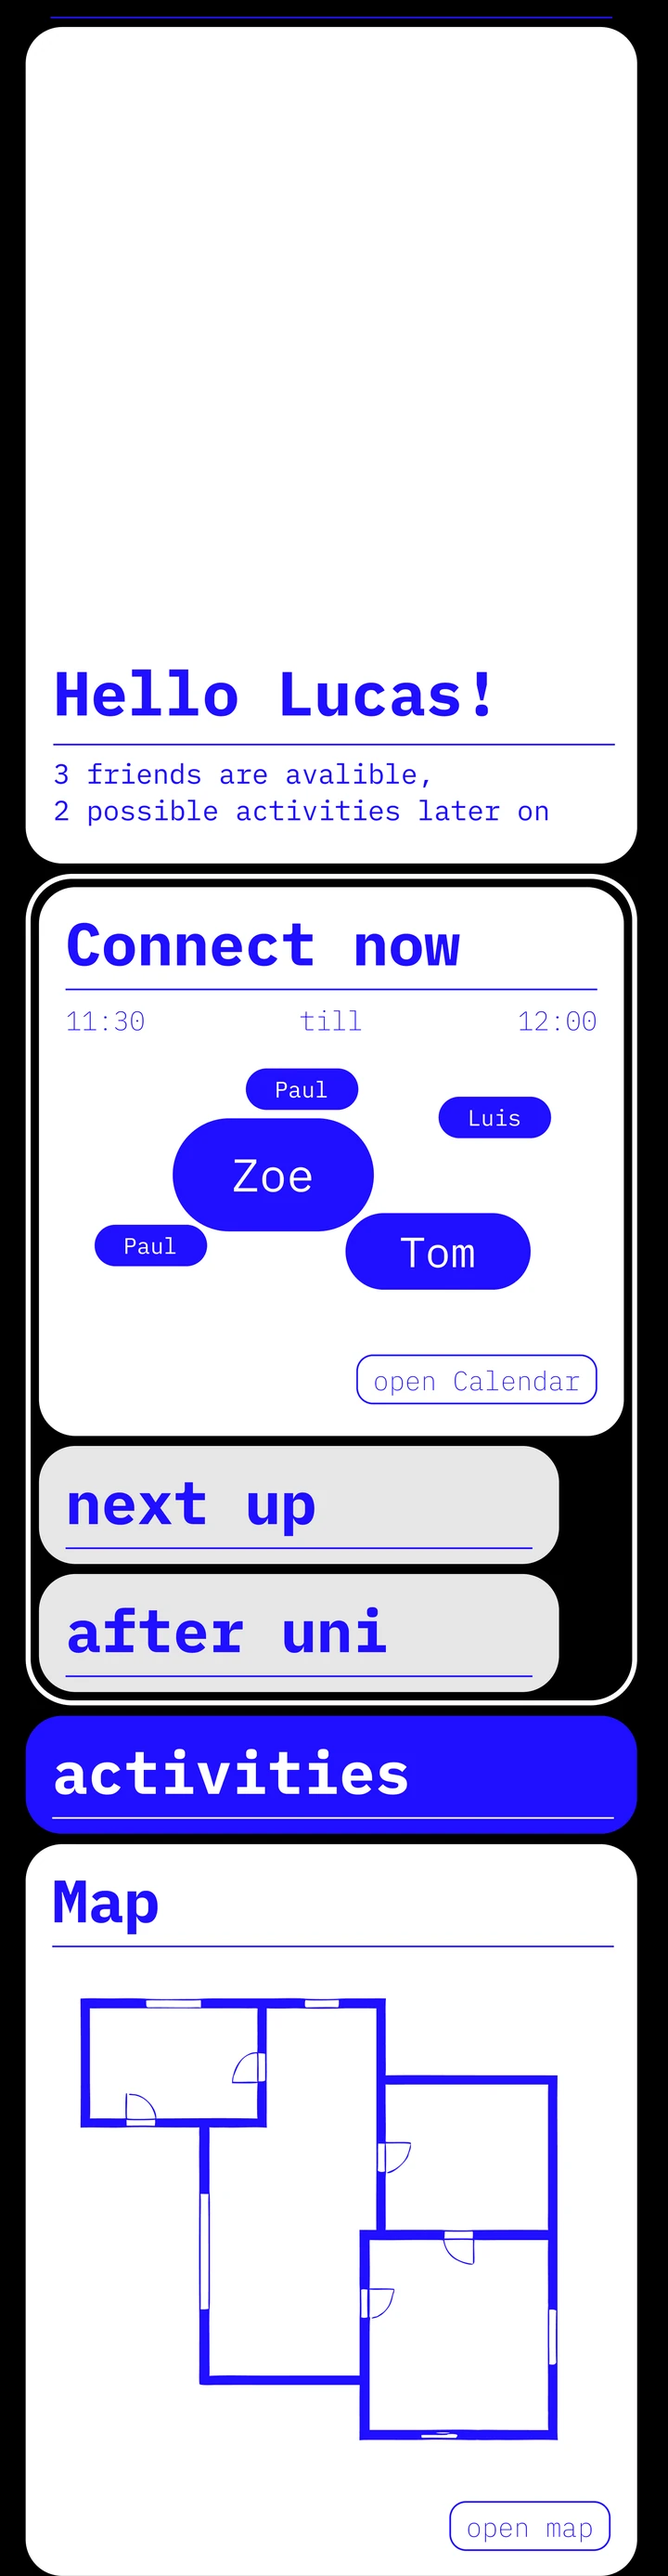
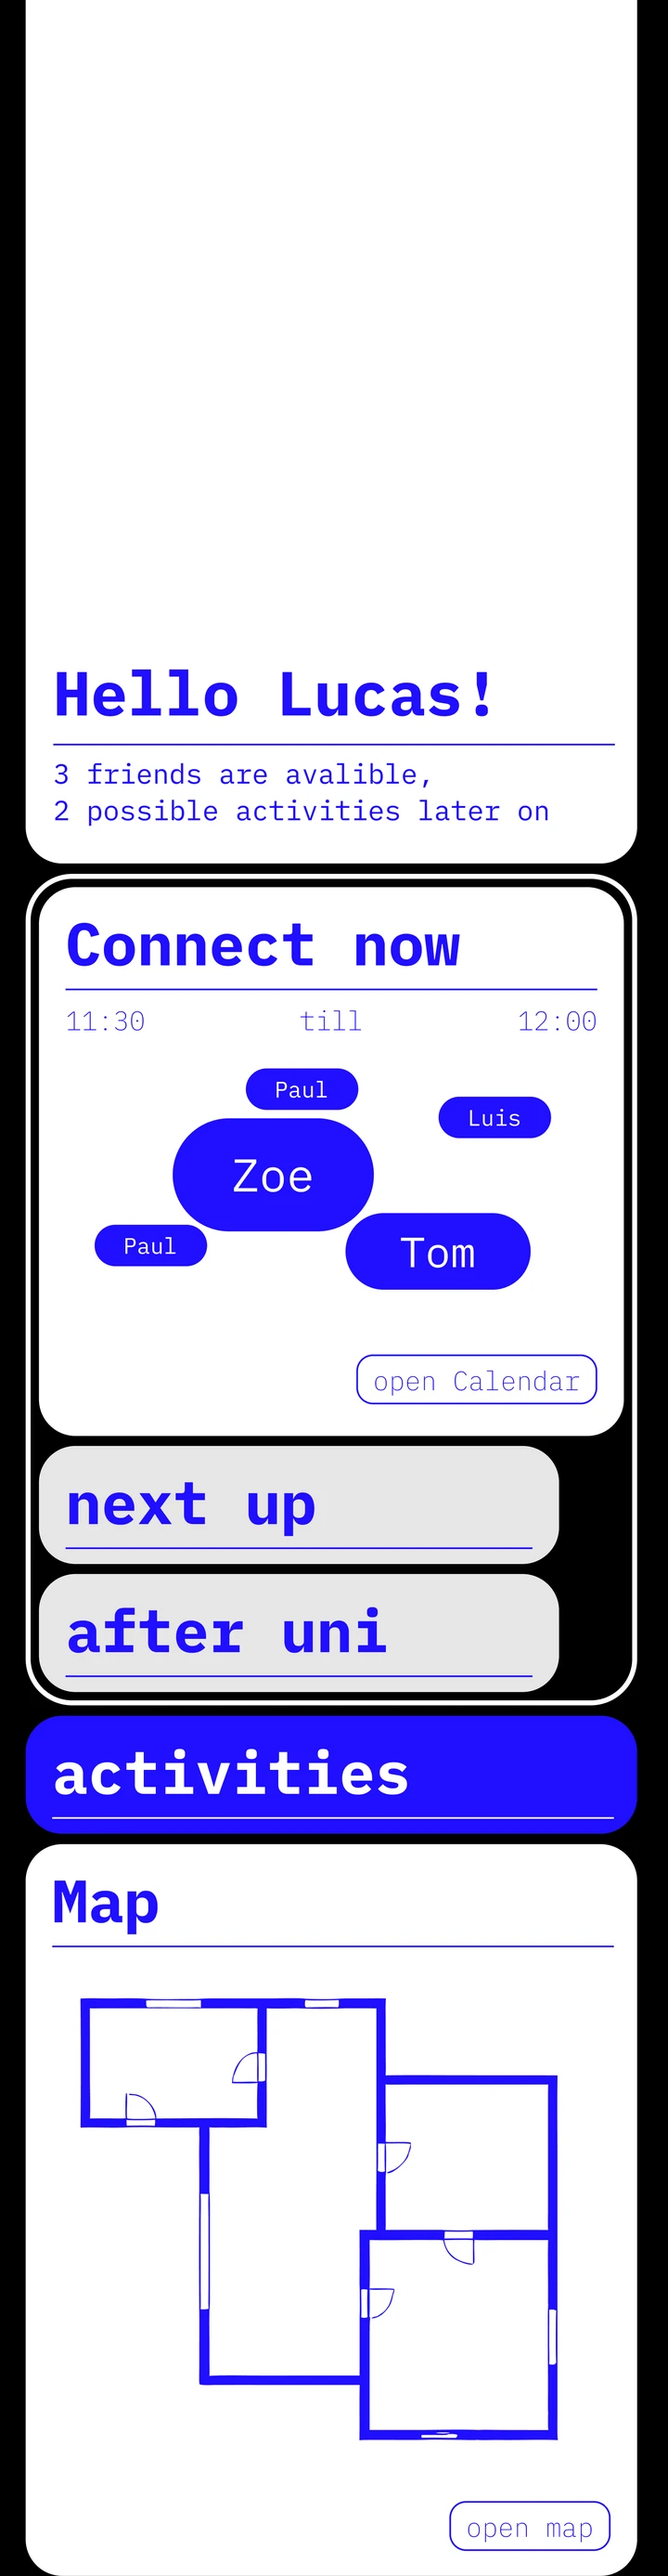
Carousel: scroll screens play on arrival, click to park, swipe to step
Home and timetable only scroll while they are in the middle and each
turn lasts as long as the scroll. Clicking a phone centres it and stops
the autoplay; a sideways trackpad scroll or swipe steps through. The v1
home card now runs to the top with square corners.

Changed region(s): [[0.0306, 0.0, 0.9778, 0.031]]

diff --git a/public/unify2d1.html b/public/unify2d1.html
@@ -1653,20 +1653,14 @@
        below it. Padding is in the image's box, so the scroll travel
        (calc(-100% + 100cqh)) still lands on the last row. */
     .v1-window img.v1-clear-island { padding-top: 10%; background: #000; box-sizing: content-box; }
-    /* Scroll the whole page down and back, eased at both ends, holding at the
-       top and bottom. The travel is calc(-100% + 100cqh): the image's own height
-       minus the window's, so it lands exactly on the last row whatever size the
-       phone renders at. Timing: hold 1.3s, down 5.2s, hold 1.6s, up 3.9s. */
-    .v1-window img.is-scrolling { animation: v1-scroll 13s infinite; }
-    .v1-window img.is-scrolling.is-late { animation-delay: 1.4s; }
-    @keyframes v1-scroll {
-      0%, 10%  { transform: translateY(0); animation-timing-function: cubic-bezier(.42, 0, .25, 1); }
-      50%, 62% { transform: translateY(calc(-100% + 100cqh)); animation-timing-function: cubic-bezier(.42, 0, .25, 1); }
-      92%, 100% { transform: translateY(0); }
-    }
-    @media (prefers-reduced-motion: reduce) {
-      .v1-window img.is-scrolling { animation: none; }
-    }
+    /* Home and timetable scroll their whole length, but only while they are
+       the phone in the middle of the carousel — the script plays it with the
+       Web Animations API (see the carousel script). The travel is
+       calc(-100% + 100cqh): the image's own height minus the window's, so it
+       lands exactly on the last row whatever size the phone renders at. */
+    .v1-carousel { touch-action: pan-y; }
+    .v1-carousel > .phone-shot { cursor: pointer; }
+    .v1-carousel > .phone-shot[data-slot="0"] { cursor: default; }
     .pivot-screens .phone-shot { width: 100%; max-width: 220px; }
 
     /* Timetable variants A / B / C with their metrics underneath. */
@@ -1979,11 +1973,11 @@
           <span class="pivot-label">v1 · technical</span>
           <div class="v1-carousel" aria-label="Unify v1 screens">
             <div class="phone-shot"><div class="phone-shot-screen"><div class="v1-screen" role="img" aria-label="Unify v1 home screen, scrolling">
-              <div class="v1-window"><img class="is-scrolling" src="/images/unify/v1/v1-home.webp" width="720" alt="" /></div>
+              <div class="v1-window"><img src="/images/unify/v1/v1-home.webp" width="720" alt="" /></div>
               <img class="v1-bar" src="/images/unify/v1/v1-home-bar.webp" width="720" height="144" alt="" />
             </div></div><img class="phone-shot-frame" src="/images/unify/iphone-17-frame.png" alt="" /></div>
             <div class="phone-shot"><div class="phone-shot-screen"><div class="v1-screen" role="img" aria-label="Unify v1 timetable, scrolling">
-              <div class="v1-window"><img class="is-scrolling is-late v1-clear-island" src="/images/unify/v1/v1-timetable.webp" width="720" alt="" /></div>
+              <div class="v1-window"><img class="v1-clear-island" src="/images/unify/v1/v1-timetable.webp" width="720" alt="" /></div>
               <img class="v1-bar" src="/images/unify/v1/v1-timetable-bar.webp" width="720" height="144" alt="" />
             </div></div><img class="phone-shot-frame" src="/images/unify/iphone-17-frame.png" alt="" /></div>
             <div class="phone-shot"><div class="phone-shot-screen"><img class="v1-still" src="/images/unify/v1/v1-building.webp" alt="Unify v1 building map with floor switcher" /></div><img class="phone-shot-frame" src="/images/unify/iphone-17-frame.png" alt="" /></div>
@@ -3016,46 +3010,130 @@
   </script>
 
   <script>
-    // ── v1 carousel: step every phone one slot right every 3s, wrap at the edge
+    // ── v1 carousel ───────────────────────────────────────────────────────────
+    // Five phones on five slots (-2..2). It advances on its own, one slot to the
+    // right, after each screen has had its turn in the middle: 3s for a still,
+    // the full scroll for home and timetable, which only play while they are in
+    // the middle. Clicking a phone brings it to the middle and stops the
+    // autoplay there; a sideways trackpad scroll or a swipe steps through them.
     (function () {
       var car = document.querySelector('.v1-carousel');
       if (!car) return;
       var items = Array.prototype.slice.call(car.children), n = items.length;
-      var DWELL = 3000, MOVE = 900, FADE = 450, GROW = 700;
-      var center = 0;                                   // index of the phone in the middle
+      var STILL = 3000, MOVE = 900, FADE = 450, GROW = 700;
+      var SCROLL_IN = 500, SCROLL_DOWN = 5200, SCROLL_HOLD = 1200;
+      var EASE = 'cubic-bezier(.42, 0, .25, 1)';
+      var END = 'translateY(calc(-100% + 100cqh))';
+      var reduce = window.matchMedia('(prefers-reduced-motion: reduce)').matches;
+      var center = 0, auto = !reduce, timer = null, onScreen = false, playing = null;
+
       function slotOf(i) {                              // left of centre = next in order
-        var d = ((center - i) % n + n) % n;             // 0..n-1
-        return d > 2 ? d - n : d;                       // -2..2
+        var d = ((center - i) % n + n) % n;
+        return d > 2 ? d - n : d;
       }
-      function place() { items.forEach(function (el, i) { el.dataset.slot = slotOf(i); }); }
-      place();
-      if (window.matchMedia('(prefers-reduced-motion: reduce)').matches) return;
+      function scroller(el) { return el.querySelector('.v1-window img'); }
 
-      function step() {
-        var wrapping = items.filter(function (el) { return el.dataset.slot === '2'; })[0];
-        center = (center + 1) % n;
-        items.forEach(function (el, i) { if (el !== wrapping) el.dataset.slot = slotOf(i); });
-        if (!wrapping) return;
-        // The outer phone does not slide round the edge: it shrinks and fades
-        // away as if stepping back (only a third of a slot sideways), then on
-        // the far left it grows and fades in, as if stepping forward.
-        wrapping.style.transition = 'transform ' + FADE + 'ms cubic-bezier(.5, 0, .75, 0), opacity ' + FADE + 'ms ease-in';
-        wrapping.dataset.slot = 'out-right';
-        setTimeout(function () {
-          wrapping.style.transition = 'none';
-          wrapping.dataset.slot = 'out-left';           // jump unseen to the far left
-          void wrapping.offsetWidth;
-          wrapping.style.transition = 'transform ' + GROW + 'ms cubic-bezier(.25, 1, .5, 1), opacity ' + GROW + 'ms ease-out';
-          wrapping.dataset.slot = '-2';
-          setTimeout(function () { wrapping.style.transition = ''; }, GROW);
-        }, FADE);
+      // ── the scroll inside home / timetable
+      function play(el) {
+        var img = scroller(el);
+        if (!img || reduce) return;
+        playing = img.animate(auto
+          // autoplay: once down, then hold at the bottom until the carousel moves on
+          ? [{ transform: 'translateY(0)', offset: 0, easing: EASE },
+             { transform: END }]
+          // parked by a click: down, hold, back up, hold, for as long as it stays
+          : [{ transform: 'translateY(0)', offset: 0 },
+             { transform: 'translateY(0)', offset: .08, easing: EASE },
+             { transform: END, offset: .48 },
+             { transform: END, offset: .6, easing: EASE },
+             { transform: 'translateY(0)', offset: .92 },
+             { transform: 'translateY(0)', offset: 1 }],
+          auto ? { duration: SCROLL_DOWN, delay: SCROLL_IN, fill: 'forwards' }
+               : { duration: 13000, iterations: Infinity });
+      }
+      function rewind() {                               // glide back to the top as it leaves
+        if (!playing) return;
+        var img = playing.effect.target, from = getComputedStyle(img).transform;
+        playing.cancel(); playing = null;
+        if (from && from !== 'none') img.animate([{ transform: from }, { transform: 'translateY(0)' }],
+                                                 { duration: MOVE, easing: 'cubic-bezier(.65, 0, .35, 1)' });
       }
 
-      var timer = null;
-      function start() { if (!timer) timer = setInterval(step, DWELL + MOVE); }
-      function stop()  { clearInterval(timer); timer = null; }
-      var onScreen = false;
-      function sync() { onScreen && !document.hidden ? start() : stop(); }
+      // ── moving the row by c slots (c > 0 = rightwards)
+      function moveBy(c) {
+        if (!c) return;
+        rewind();
+        var old = items.map(function (el) { return +el.dataset.slot; });
+        center = ((center + c) % n + n) % n;
+        items.forEach(function (el, i) {
+          var to = slotOf(i), passes = old[i] + c;
+          if (passes >= -2 && passes <= 2) { el.dataset.slot = to; return; }
+          // Past an edge: step back and fade on that side, then step forward
+          // and fade in on the other side, only a third of a slot sideways.
+          el.style.transition = 'transform ' + FADE + 'ms cubic-bezier(.5, 0, .75, 0), opacity ' + FADE + 'ms ease-in';
+          el.dataset.slot = passes > 2 ? 'out-right' : 'out-left';
+          setTimeout(function () {
+            el.style.transition = 'none';
+            el.dataset.slot = passes > 2 ? 'out-left' : 'out-right';
+            void el.offsetWidth;
+            el.style.transition = 'transform ' + GROW + 'ms cubic-bezier(.25, 1, .5, 1), opacity ' + GROW + 'ms ease-out';
+            el.dataset.slot = to;
+            setTimeout(function () { el.style.transition = ''; }, GROW);
+          }, FADE);
+        });
+        setTimeout(function () { play(items[center]); }, MOVE);
+        schedule();
+      }
+
+      // ── autoplay: each screen's turn lasts as long as it needs
+      function turnLength(el) {
+        return scroller(el) ? SCROLL_IN + SCROLL_DOWN + SCROLL_HOLD : STILL;
+      }
+      function schedule() {
+        clearTimeout(timer); timer = null;
+        if (!auto || !onScreen || document.hidden) return;
+        timer = setTimeout(function () { moveBy(1); }, MOVE + turnLength(items[center]));
+      }
+      function park() { auto = false; clearTimeout(timer); timer = null; }
+
+      items.forEach(function (el, i) {
+        el.dataset.slot = slotOf(i);
+        el.addEventListener('click', function () {
+          var s = +el.dataset.slot;
+          park();
+          if (s === 0) { rewind(); play(el); return; }   // restart its scroll, looping
+          moveBy(-s);
+        });
+      });
+
+      // sideways trackpad / mouse-wheel: one step per gesture
+      var acc = 0, lock = false;
+      car.addEventListener('wheel', function (e) {
+        if (Math.abs(e.deltaX) <= Math.abs(e.deltaY)) return;   // vertical: let the page scroll
+        e.preventDefault();
+        if (lock) return;
+        acc += e.deltaX;
+        if (Math.abs(acc) < 40) return;
+        park(); moveBy(acc > 0 ? -1 : 1);
+        acc = 0; lock = true;
+        setTimeout(function () { lock = false; }, MOVE + 150);
+      }, { passive: false });
+
+      // swipe on touch
+      var x0 = null, y0 = null;
+      car.addEventListener('touchstart', function (e) { x0 = e.touches[0].clientX; y0 = e.touches[0].clientY; }, { passive: true });
+      car.addEventListener('touchend', function (e) {
+        if (x0 === null) return;
+        var dx = e.changedTouches[0].clientX - x0, dy = e.changedTouches[0].clientY - y0;
+        x0 = null;
+        if (Math.abs(dx) < 40 || Math.abs(dx) < Math.abs(dy)) return;
+        park(); moveBy(dx > 0 ? 1 : -1);
+      }, { passive: true });
+
+      function sync() {
+        if (onScreen && !document.hidden) { if (!playing) play(items[center]); schedule(); }
+        else { clearTimeout(timer); timer = null; }
+      }
       new IntersectionObserver(function (e) { onScreen = e[0].isIntersecting; sync(); }).observe(car);
       document.addEventListener('visibilitychange', sync);
     })();

diff --git a/CLAUDE.md b/CLAUDE.md
@@ -149,21 +149,28 @@ Every `[ bracketed ]` value is a placeholder; plan numbers are examples, not res
 **v1 screens (pivot section)**: all five v1 Figma exports (1608px wide = iPhone 17 at 4x) in the
 same `.phone-shot` iPhone frame as the final design, in a looping **carousel**
 (`.v1-carousel`, from Lucas's reference): five slots, the middle phone largest, neighbours at 0.84,
-the outer pair at 0.68 tucked BEHIND the neighbours. Every 3s (+0.9s move) the whole row steps one
-slot right, so the next screen in order (home → timetable → building → friends → open) arrives
-from the left; the phone leaving the right edge shrinks and fades as if stepping back (a third of a slot sideways), then on the far left grows and fades in as if stepping forward. Geometry
-is CSS per `data-slot` (offsets in phone widths via `translateX(%)`); the script at the end of the
-page only rewrites slots, pauses off-screen and in a hidden tab, and does nothing under
-`prefers-reduced-motion`. Below 640px the carousel bleeds to the screen edges and the outer pair
-sits off screen. The three building screens are single stills (`.v1-still`). The two
-long ones, home and timetable, are split into the page (`v1-<name>.webp`) and its tab bar
-(`v1-<name>-bar.webp`, the bottom 321px of the export), so the bar stays fixed while the page
-scrolls under it. **No safe-area band** — per Lucas the content runs up under the frame's island,
-as it would on the phone (a 7% black band was tried and dropped). Scrolling uses
-`@keyframes v1-scroll` (13s: hold, eased down, hold, eased up); the travel is
-`calc(-100% + 100cqh)` against the `.v1-window` size container, so it always ends exactly on the
-last row, whatever size the phone renders at. The timetable starts 1.4s late so the two don't
-move in lockstep. Off under `prefers-reduced-motion`.
+the outer pair at 0.68 tucked BEHIND the neighbours. It autoplays one slot to the RIGHT per turn,
+so the next screen in order (home → timetable → building → friends → open) arrives from the left.
+A turn is 3s for a still; for home and timetable it is their whole scroll (0.5s, 5.2s eased down,
+1.2s hold) — **they only scroll while they are the middle phone** (Web Animations API, started
+when they arrive, glided back to the top as they leave), so each one starts at its top when it
+opens. A phone passing an edge shrinks and fades as if stepping back (a third of a slot sideways),
+then grows and fades in on the other side. **Clicking** a phone brings it to the middle and stops
+the autoplay for good; a parked home/timetable then loops its scroll (13s down-hold-up-hold).
+A **sideways trackpad scroll** (only when |deltaX| > |deltaY|, so vertical page scrolling is never
+blocked) or a **swipe** steps one slot and also stops the autoplay. Geometry is CSS per
+`data-slot` (offsets in phone widths via `translateX(%)`); the script pauses off-screen and in a
+hidden tab and does nothing under `prefers-reduced-motion`. Below 640px the carousel bleeds to the
+screen edges and the outer pair sits off screen.
+
+The three building screens are single stills (`.v1-still`). Home and timetable are split into the
+page (`v1-<name>.webp`) and its tab bar (`v1-<name>-bar.webp`, the bottom 321px of the export), so
+the bar stays fixed while the page scrolls under it. The scroll travel is `calc(-100% + 100cqh)`
+against the `.v1-window` size container, so it ends exactly on the last row at any size. Content
+runs up under the frame's island (per Lucas), with two per-screen edits: the **timetable** has a
+10%-of-width black band on top (`.v1-clear-island`) so its buttons clear the island, and the
+**home** export's white card was extended to the very top with square corners (its rounded top
+and a stray blue line above it were painted over before export; the Desktop original is unedited).
 
 **Problem section = three real WhatsApp screenshots** (`public/images/unify/problem/chat-1-jamie`,
 `-2-sophia`, `-3-me.webp`, 780px wide), edited for anonymity: group renamed "lil g", Karla → Jamie,
